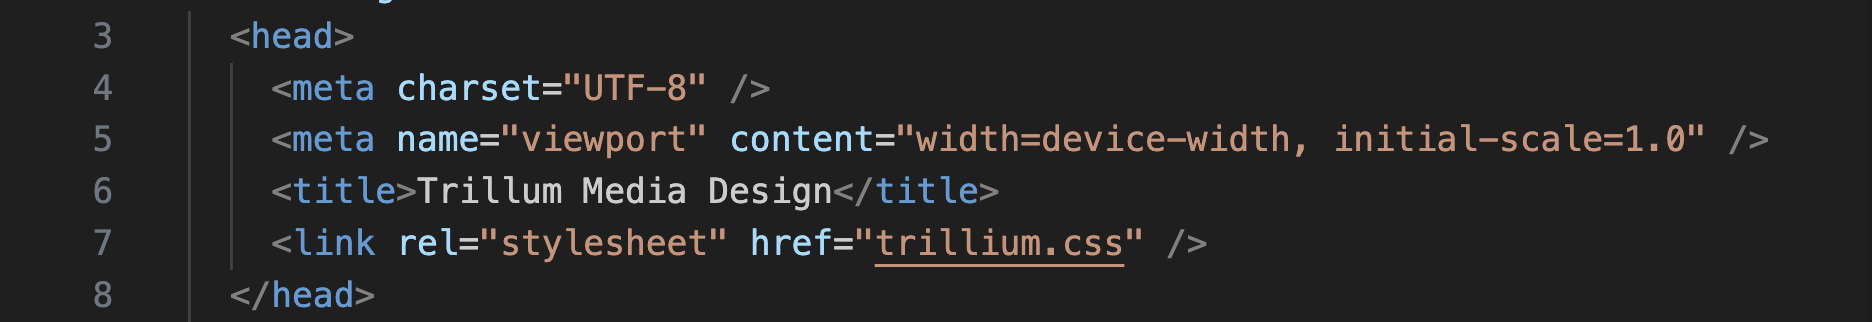
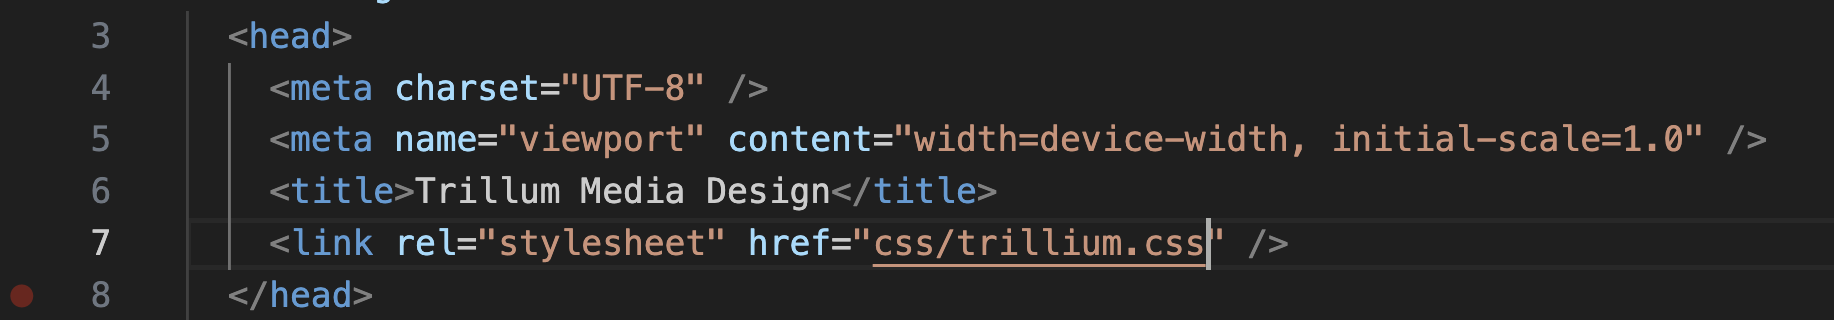
docs: Update Part II Warmup Activity

diff --git a/part-II/warmupActivity/README.md b/part-II/warmupActivity/README.md
@@ -8,7 +8,7 @@ See if you can update your Trillium home page to look like the picture below: <b
 
 We are now going to use CSS (Cascading Style Sheets) to make our webpage more appealing.
 
-1. Create a new file and save it as `trillium.css`
+1. Create a new folder called `css` and create a file inside of the folder and save it as `trillium.css`
 
 2. Add a link to your new `trillium.css` in your HTML files. This allows your HTML to "see" the CSS and apply the changes.
    ![Link CSS](images/linkCSS.png)
